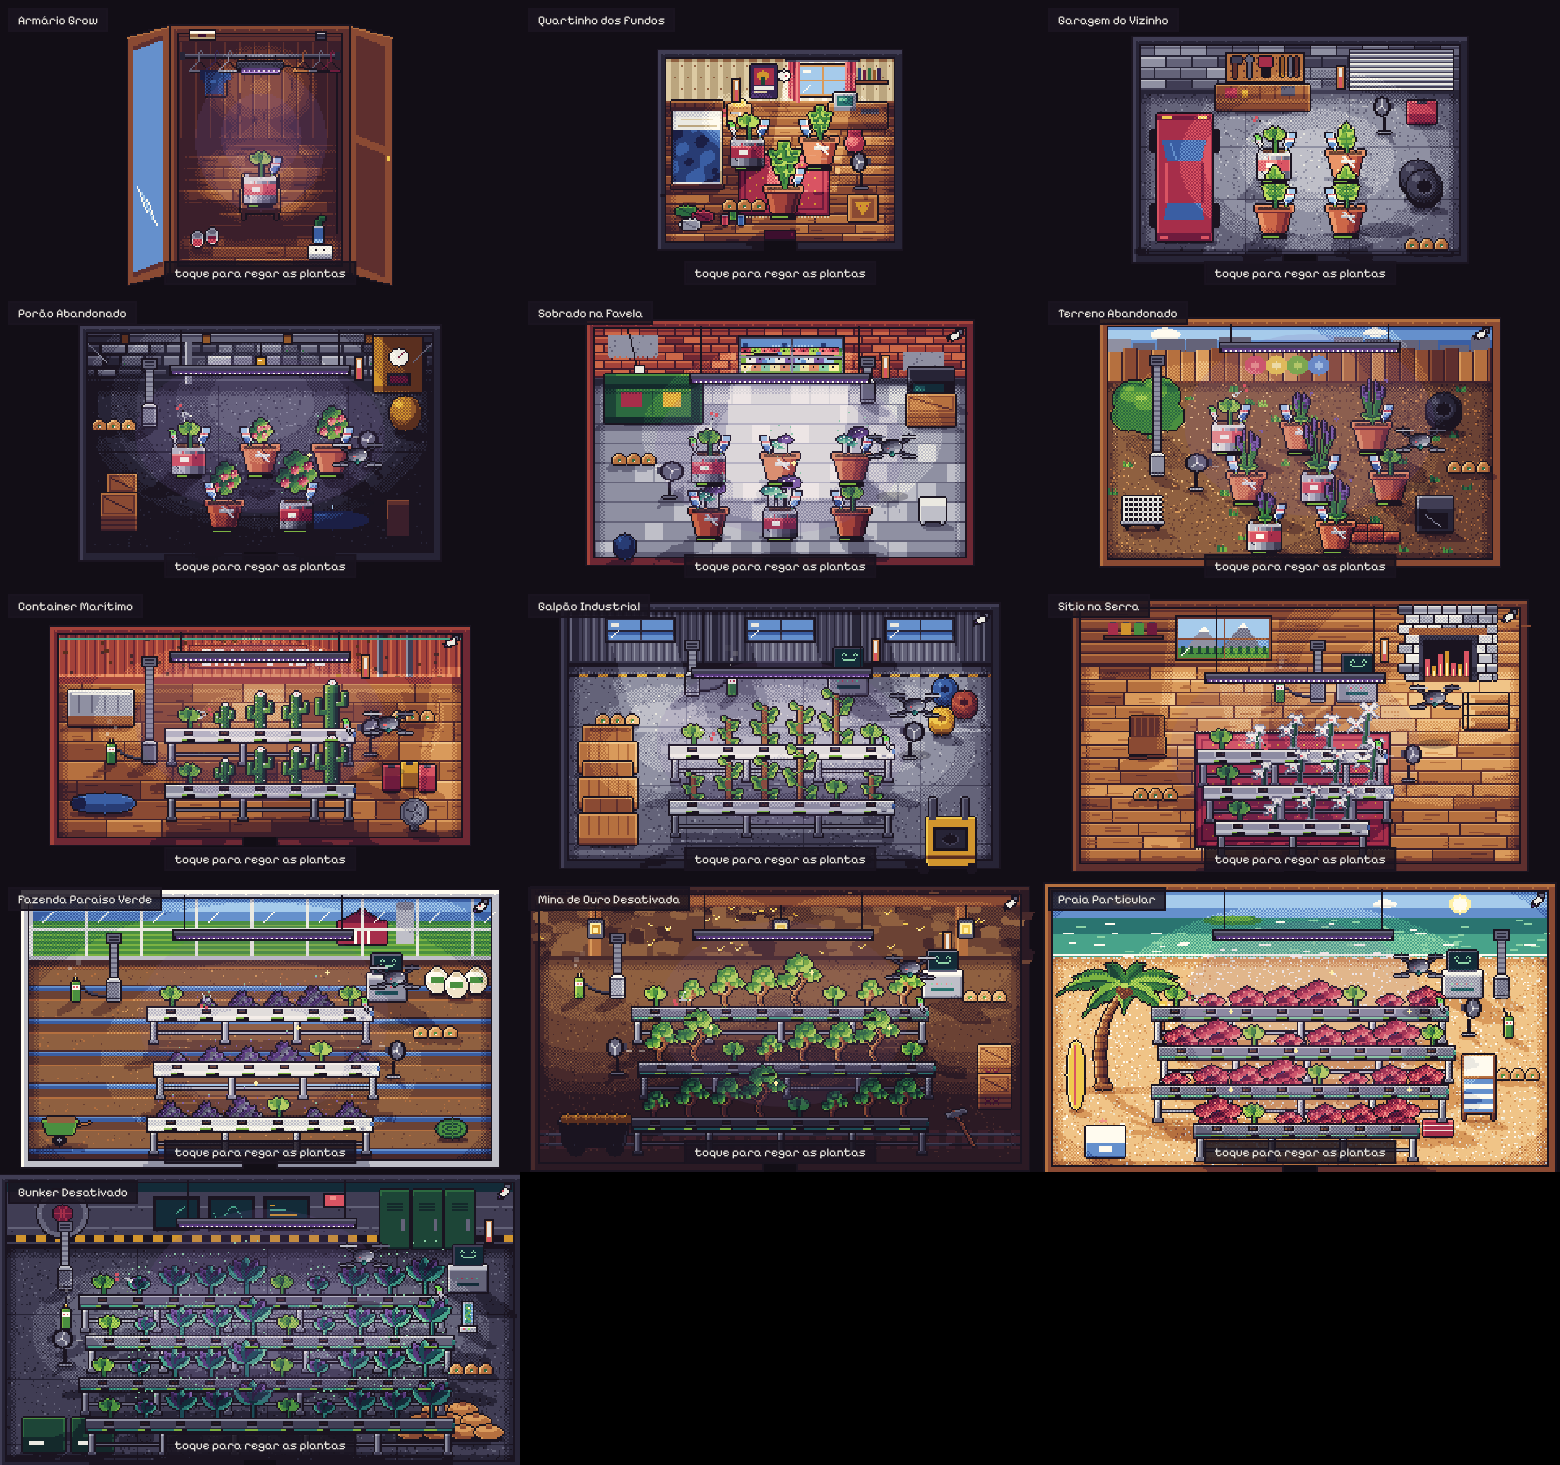
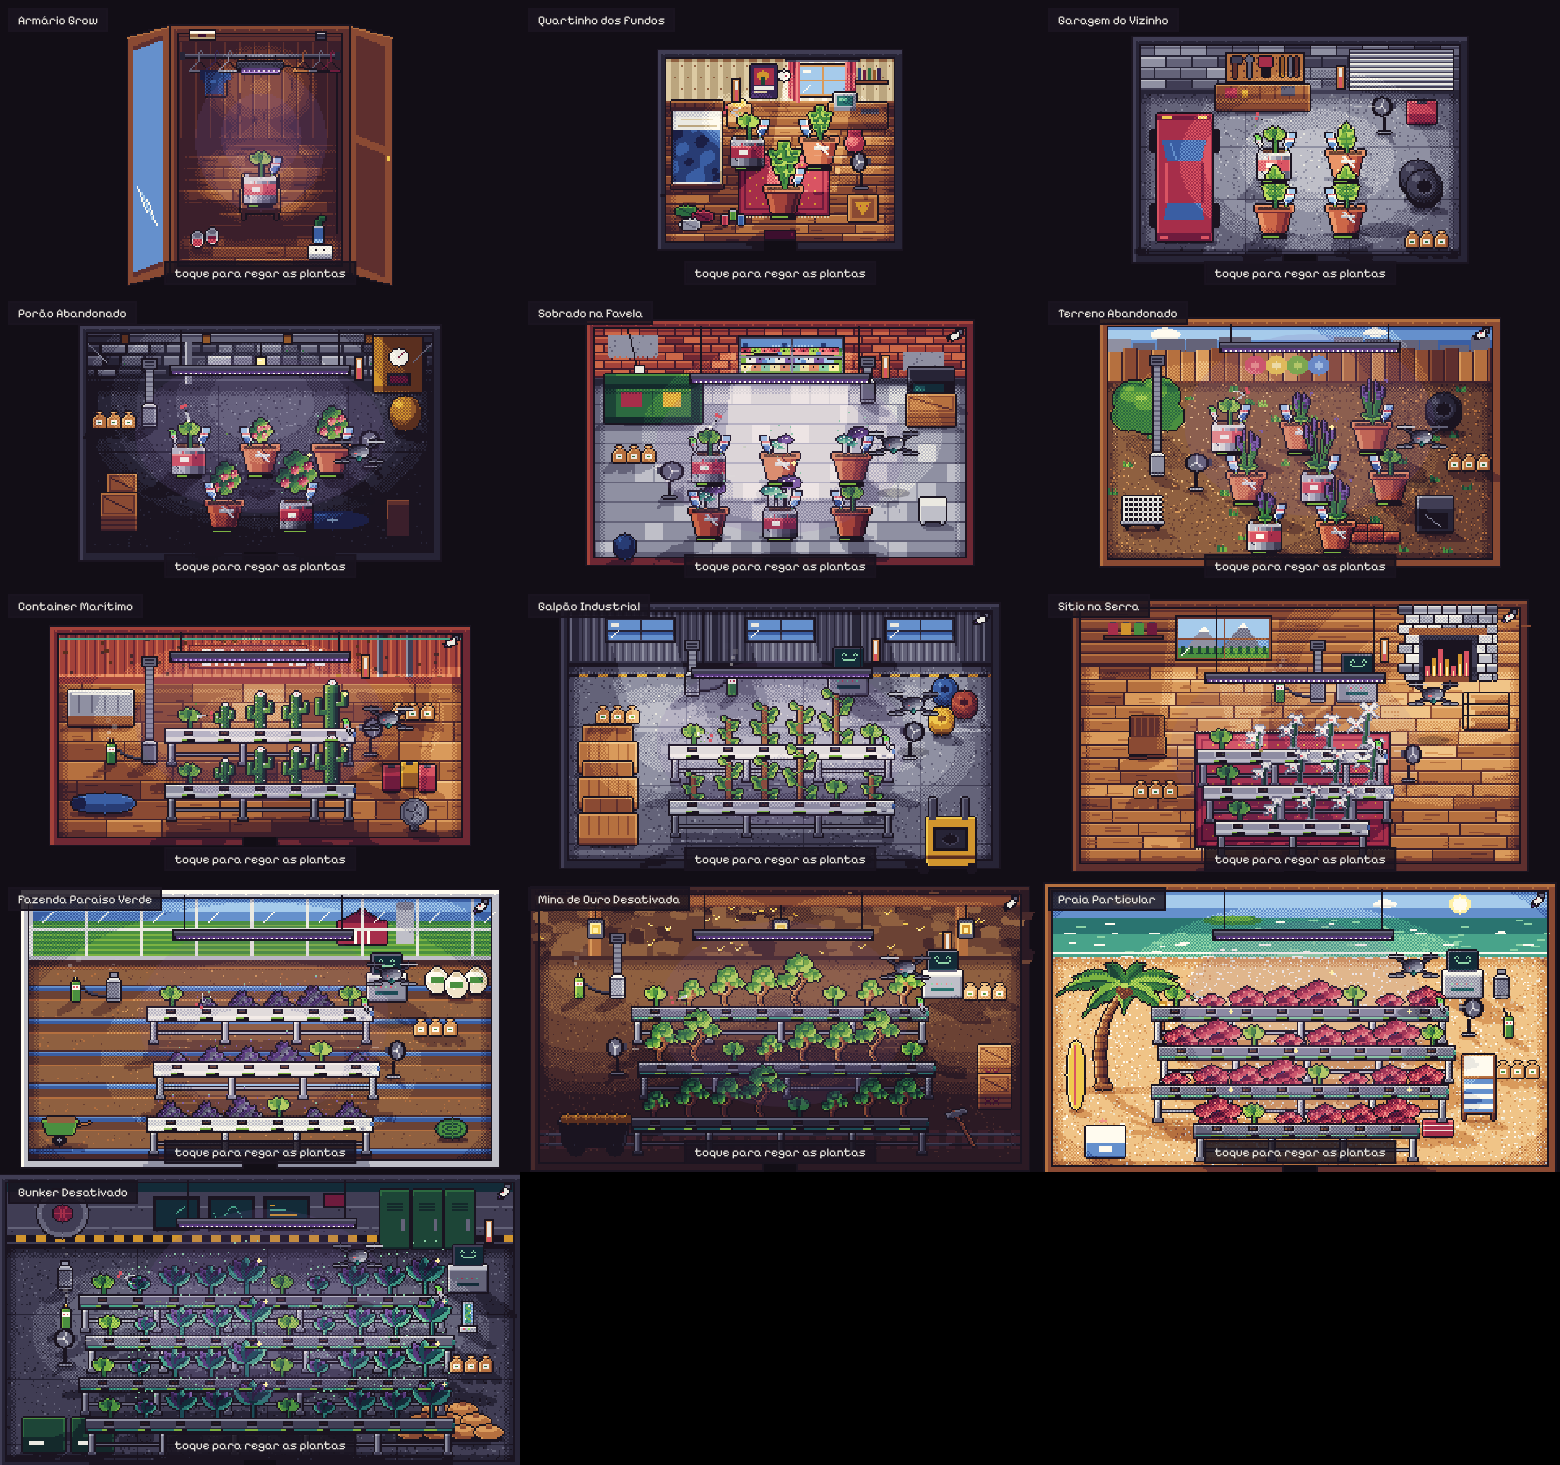
Menos equipamentos nos primeiros lugares; lâmpada, mini estufa, osmose e kit bunker saem do jogo
Claude-Session: https://claude.ai/code/session_01HfiNK7N8PbFECLpAuFn46A

diff --git a/prototype/idle/index.html b/prototype/idle/index.html
@@ -182,16 +182,16 @@ canvas.spark{display:inline-block;width:72px;height:18px;vertical-align:middle;i
     ["Cogumelo Saltitante", 300, 500, 5, 6, ["termometro", "ventilador"], 75],
     ["Lavanda Hipnótica", 800, 1200, 4, 7, ["fertilizante", "ventilador"], 90],
     ["Cacto Cabeludo", 2000, 3500, 2, 8, ["ph", "termometro"], 100],
-    ["Lótus Azul", 5000, 8000, 3, 9, ["lampada", "ph", "fertilizante"], 120],
-    ["Cipó Enrolado", 12000, 25000, 2, 10, ["estufa", "ph", "fertilizante"], 150],
-    ["Orquídea Fantasma", 30000, 60000, 2, 12, ["lampada", "estufa", "filtro"], 180],
+    ["Lótus Azul", 5000, 8000, 3, 9, ["ventilador", "ph", "fertilizante"], 120],
+    ["Cipó Enrolado", 12000, 25000, 2, 10, ["filtro", "ph"], 150],
+    ["Orquídea Fantasma", 30000, 60000, 2, 12, ["filtro", "led"], 180],
     ["Trufa Negra", 80000, 150000, 2, 14, ["led", "filtro", "ph"], 210],
     ["Mandrágora", 200000, 450000, 1, 16, ["led", "hidro", "filtro"], 240],
     ["Bonsai Milenar", 500000, 1.2e6, 1, 18, ["hidro", "co2", "led"], 300],
-    ["Rafflesia Gigante", 1.5e6, 4e6, 1, 20, ["co2", "osmose", "led", "filtro"], 360],
-    ["Aurora Boreal", 5e6, 1.5e7, 1, 23, ["ia", "co2", "osmose", "led"], 420],
-    ["Fruto do Éden", 2e7, 6.5e7, 1, 26, ["ia", "bunker", "lab"], 600],
-    ["Broto de Yggdrasil", 1e8, 3.5e8, 1, 30, ["lab", "bunker", "ia", "osmose"], 900],
+    ["Rafflesia Gigante", 1.5e6, 4e6, 1, 20, ["co2", "led", "filtro"], 360],
+    ["Aurora Boreal", 5e6, 1.5e7, 1, 23, ["ia", "co2", "led"], 420],
+    ["Fruto do Éden", 2e7, 6.5e7, 1, 26, ["ia", "lab"], 600],
+    ["Broto de Yggdrasil", 1e8, 3.5e8, 1, 30, ["lab", "ia", "cameras", "drone"], 900],
   ].map(([name, price, sell, prod, bot, req, time], id) => ({ id, name, price, sell, prod, bot, req, time, frame: id }));
 
   // Equipamentos (GDD): preço em grana limpa e bônus de produção. Cada um tem níveis
@@ -200,13 +200,15 @@ canvas.spark{display:inline-block;width:72px;height:18px;vertical-align:middle;i
   // (os outros ficam para trás e são comprados de novo no lugar novo). place: lugar mínimo onde cabe.
   const EQUIP_RULES = {
     regador: { max: 5, place: 0 }, tesoura: { max: 5, place: 1 }, ventilador: { max: 5, place: 1 },
-    termometro: { max: 5, place: 1 }, fertilizante: { max: 5, place: 1 }, lampada: { max: 5, place: 1 },
-    ph: { max: 5, place: 1 }, estufa: { max: 5, place: 2 }, drone: { max: 1, keep: true, place: 3 },
+    termometro: { max: 5, place: 1 }, fertilizante: { max: 5, place: 2 }, lampada: { max: 5, place: 1 },
+    ph: { max: 5, place: 2 }, estufa: { max: 5, place: 2 }, drone: { max: 1, keep: true, place: 3 },
     filtro: { max: 5, place: 3 }, led: { max: 5, place: 3 }, hidro: { max: 1, keep: true, place: 6 },
     co2: { max: 5, place: 6 }, cameras: { max: 5, place: 4 }, osmose: { max: 5, place: 7 },
     ia: { max: 1, keep: true, place: 7 }, bunker: { max: 1, keep: true, place: 12, only: true },
     lab: { max: 1, keep: true, place: 12, only: true },
   };
+  // saíram do jogo: lâmpada com alumínio, mini estufa, osmose reversa e kit bunker
+  const REMOVED_EQUIP = ["lampada", "estufa", "osmose", "bunker"];
   const EQUIP = [
     ["regador", "Regador de garrafa PET", 100, 0.02, { speed: 0.05 }, "Cresce 5% mais rápido"],
     ["tesoura", "Tesoura enferrujada", 150, 0.02, { tap: 0.5 }, "Toque 50% mais forte"],
@@ -226,7 +228,8 @@ canvas.spark{display:inline-block;width:72px;height:18px;vertical-align:middle;i
     ["ia", "Controlador IA", 1e7, 0.15, { tap: 1 }, "Toque 100% mais forte"],
     ["bunker", "Kit bunker", 3.5e7, 0.12, { guard: 0.25 }, "Rondas têm 25% menos chance de te achar"],
     ["lab", "Lab. de genética", 1.5e8, 0.2, { speed: 0.25 }, "Cresce 25% mais rápido"],
-  ].map(([id, name, price, prod, fx, fxText], i) => ({ id, name, price, prod, fx, fxText, frame: i, ...EQUIP_RULES[id] }));
+  ].map(([id, name, price, prod, fx, fxText], i) => ({ id, name, price, prod, fx, fxText, frame: i, ...EQUIP_RULES[id] }))
+    .filter((e) => !REMOVED_EQUIP.includes(e.id));
   const EQUIP_LEVEL_MULT = 3; // cada nível extra custa 3x o anterior (nível 5 = 81x o preço inicial)
 
   // Imóveis (GDD), em grana limpa. tier = visual (0 gambiarra, 1 profissional, 2 high-tech).
@@ -2556,7 +2559,7 @@ function loja() {
     const dInc = Math.max(0, E.incomePerSec(s2) - inc0);
     const worth = !block ? (dInc > 0 ? `<br><span class="gain">+${$$(dInc * 60)}/min de renda</span> <span class="gain2">· se paga em ${dur(c / dInc)}</span>` : "") : "";
     row({
-      ico: equipIcon(i), title: e.name, lv: e.max === 1 ? (lv ? "instalado" : "compra única") : `nv ${lv}/${e.max}`, cls: room ? "locked" : "",
+      ico: equipIcon(e.frame), title: e.name, lv: e.max === 1 ? (lv ? "instalado" : "compra única") : `nv ${lv}/${e.max}`, cls: room ? "locked" : "",
       desc: `+${pct(e.prod)} de produção${e.max > 1 ? " por nível" : ""}${e.fxText ? " · " + e.fxText : ""}${e.keep && !e.only ? " · vai com você" : ""}` +
         (room ? `<br><span class="req">${block}</span>` : needed ? `<br><span class="best">🔓 libera ${nextLocked.name}</span>` : "") + worth,
       btn: block ? (room ? null : block === "Já instalado" ? "Instalado" : "Máximo") : $$(c), btnCls: "clean",

diff --git a/prototype/idle/econ.js b/prototype/idle/econ.js
@@ -15,16 +15,16 @@
     ["Cogumelo Saltitante", 300, 500, 5, 6, ["termometro", "ventilador"], 75],
     ["Lavanda Hipnótica", 800, 1200, 4, 7, ["fertilizante", "ventilador"], 90],
     ["Cacto Cabeludo", 2000, 3500, 2, 8, ["ph", "termometro"], 100],
-    ["Lótus Azul", 5000, 8000, 3, 9, ["lampada", "ph", "fertilizante"], 120],
-    ["Cipó Enrolado", 12000, 25000, 2, 10, ["estufa", "ph", "fertilizante"], 150],
-    ["Orquídea Fantasma", 30000, 60000, 2, 12, ["lampada", "estufa", "filtro"], 180],
+    ["Lótus Azul", 5000, 8000, 3, 9, ["ventilador", "ph", "fertilizante"], 120],
+    ["Cipó Enrolado", 12000, 25000, 2, 10, ["filtro", "ph"], 150],
+    ["Orquídea Fantasma", 30000, 60000, 2, 12, ["filtro", "led"], 180],
     ["Trufa Negra", 80000, 150000, 2, 14, ["led", "filtro", "ph"], 210],
     ["Mandrágora", 200000, 450000, 1, 16, ["led", "hidro", "filtro"], 240],
     ["Bonsai Milenar", 500000, 1.2e6, 1, 18, ["hidro", "co2", "led"], 300],
-    ["Rafflesia Gigante", 1.5e6, 4e6, 1, 20, ["co2", "osmose", "led", "filtro"], 360],
-    ["Aurora Boreal", 5e6, 1.5e7, 1, 23, ["ia", "co2", "osmose", "led"], 420],
-    ["Fruto do Éden", 2e7, 6.5e7, 1, 26, ["ia", "bunker", "lab"], 600],
-    ["Broto de Yggdrasil", 1e8, 3.5e8, 1, 30, ["lab", "bunker", "ia", "osmose"], 900],
+    ["Rafflesia Gigante", 1.5e6, 4e6, 1, 20, ["co2", "led", "filtro"], 360],
+    ["Aurora Boreal", 5e6, 1.5e7, 1, 23, ["ia", "co2", "led"], 420],
+    ["Fruto do Éden", 2e7, 6.5e7, 1, 26, ["ia", "lab"], 600],
+    ["Broto de Yggdrasil", 1e8, 3.5e8, 1, 30, ["lab", "ia", "cameras", "drone"], 900],
   ].map(([name, price, sell, prod, bot, req, time], id) => ({ id, name, price, sell, prod, bot, req, time, frame: id }));
 
   // Equipamentos (GDD): preço em grana limpa e bônus de produção. Cada um tem níveis
@@ -33,13 +33,15 @@
   // (os outros ficam para trás e são comprados de novo no lugar novo). place: lugar mínimo onde cabe.
   const EQUIP_RULES = {
     regador: { max: 5, place: 0 }, tesoura: { max: 5, place: 1 }, ventilador: { max: 5, place: 1 },
-    termometro: { max: 5, place: 1 }, fertilizante: { max: 5, place: 1 }, lampada: { max: 5, place: 1 },
-    ph: { max: 5, place: 1 }, estufa: { max: 5, place: 2 }, drone: { max: 1, keep: true, place: 3 },
+    termometro: { max: 5, place: 1 }, fertilizante: { max: 5, place: 2 }, lampada: { max: 5, place: 1 },
+    ph: { max: 5, place: 2 }, estufa: { max: 5, place: 2 }, drone: { max: 1, keep: true, place: 3 },
     filtro: { max: 5, place: 3 }, led: { max: 5, place: 3 }, hidro: { max: 1, keep: true, place: 6 },
     co2: { max: 5, place: 6 }, cameras: { max: 5, place: 4 }, osmose: { max: 5, place: 7 },
     ia: { max: 1, keep: true, place: 7 }, bunker: { max: 1, keep: true, place: 12, only: true },
     lab: { max: 1, keep: true, place: 12, only: true },
   };
+  // saíram do jogo: lâmpada com alumínio, mini estufa, osmose reversa e kit bunker
+  const REMOVED_EQUIP = ["lampada", "estufa", "osmose", "bunker"];
   const EQUIP = [
     ["regador", "Regador de garrafa PET", 100, 0.02, { speed: 0.05 }, "Cresce 5% mais rápido"],
     ["tesoura", "Tesoura enferrujada", 150, 0.02, { tap: 0.5 }, "Toque 50% mais forte"],
@@ -59,7 +61,8 @@
     ["ia", "Controlador IA", 1e7, 0.15, { tap: 1 }, "Toque 100% mais forte"],
     ["bunker", "Kit bunker", 3.5e7, 0.12, { guard: 0.25 }, "Rondas têm 25% menos chance de te achar"],
     ["lab", "Lab. de genética", 1.5e8, 0.2, { speed: 0.25 }, "Cresce 25% mais rápido"],
-  ].map(([id, name, price, prod, fx, fxText], i) => ({ id, name, price, prod, fx, fxText, frame: i, ...EQUIP_RULES[id] }));
+  ].map(([id, name, price, prod, fx, fxText], i) => ({ id, name, price, prod, fx, fxText, frame: i, ...EQUIP_RULES[id] }))
+    .filter((e) => !REMOVED_EQUIP.includes(e.id));
   const EQUIP_LEVEL_MULT = 3; // cada nível extra custa 3x o anterior (nível 5 = 81x o preço inicial)
 
   // Imóveis (GDD), em grana limpa. tier = visual (0 gambiarra, 1 profissional, 2 high-tech).

diff --git a/prototype/idle/template.html b/prototype/idle/template.html
@@ -1099,7 +1099,7 @@ function loja() {
     const dInc = Math.max(0, E.incomePerSec(s2) - inc0);
     const worth = !block ? (dInc > 0 ? `<br><span class="gain">+${$$(dInc * 60)}/min de renda</span> <span class="gain2">· se paga em ${dur(c / dInc)}</span>` : "") : "";
     row({
-      ico: equipIcon(i), title: e.name, lv: e.max === 1 ? (lv ? "instalado" : "compra única") : `nv ${lv}/${e.max}`, cls: room ? "locked" : "",
+      ico: equipIcon(e.frame), title: e.name, lv: e.max === 1 ? (lv ? "instalado" : "compra única") : `nv ${lv}/${e.max}`, cls: room ? "locked" : "",
       desc: `+${pct(e.prod)} de produção${e.max > 1 ? " por nível" : ""}${e.fxText ? " · " + e.fxText : ""}${e.keep && !e.only ? " · vai com você" : ""}` +
         (room ? `<br><span class="req">${block}</span>` : needed ? `<br><span class="best">🔓 libera ${nextLocked.name}</span>` : "") + worth,
       btn: block ? (room ? null : block === "Já instalado" ? "Instalado" : "Máximo") : $$(c), btnCls: "clean",

diff --git a/docs/IDLE.md b/docs/IDLE.md
@@ -42,7 +42,7 @@ Todos os sistemas do GDD original estão no protótipo, com os números do GDD:
 | 13 imóveis | Do Armário Grow (1 vaso numa cadeira, dentro do guarda-roupa) ao Bunker Desativado (40 plantas). Ordem: Armário, Quartinho, Garagem, Porão, Sobrado na Favela, Terreno, Container, Galpão, Sítio, Fazenda, Mina, Praia Particular e Bunker. O Quartinho é o 2º ($100, 3 vasos). Do Terreno em diante as plantas vão para calhas de hidroponia, que cabem mais plantas no mesmo espaço. A Estação Espacial saiu: o passo seguinte vai ser mudar de cidade. O visual muda: gambiarra → profissional → high-tech. |
 | 5 níveis de venda | Por porcentagem do estoque: Discreto 5%, Normal 15%, Ousado 35%, Agressivo 70% e All-in 100% (maior risco). Cada nível tem Paranoia, chance de flagrante e bônus de preço. Uma venda por vez (espera de 20 s a 3 s). Cada venda gasta Estamina proporcional ao tamanho: 1, 3, 6, 10 e 16⚡ (o dobro com Paranoia alta). As vendas do Zé não gastam a sua. |
 | Ficha na polícia | Cada batida sobe a ficha em 10% (até 50%): a Paranoia nunca cai abaixo dela, então quem já foi preso joga com menos folga. A ficha baixa 5% a cada 5 de Lenda ganhos depois da batida, ou 10% na hora com o advogado (Cidade, grana limpa, 10× mais caro a cada 10% de ficha). Aparece como uma faixa listrada no começo da barra de Paranoia. |
-| Equipamentos por lugar | Até o nível 5 (cada nível custa 3× o anterior). Cada um tem um lugar mínimo onde cabe (no Armário só a garrafa PET) e não dá para comprar antes. Ao se mudar, os equipamentos ficam para trás e são comprados de novo. Drone, sistema hidropônico e controlador IA são compra única e vão com você; kit bunker e laboratório de genética só no Bunker. As calhas aparecem quando você compra o sistema hidropônico. |
+| Equipamentos por lugar | 14 equipamentos (a lâmpada com alumínio, a mini estufa, a osmose reversa e o kit bunker saíram do jogo). Até o nível 5, cada nível custa 3× o anterior. Cada um tem um lugar mínimo: Armário só a garrafa PET; Quartinho até o termômetro (tesoura, ventilador, termômetro); Garagem até o pH (adubo, pH); Porão: drone, filtro e LED; Sobrado: câmeras; Container: hidroponia e CO2; Galpão: IA; Bunker: laboratório. Ao se mudar, os equipamentos ficam para trás e são comprados de novo; drone, hidroponia e IA são compra única e vão com você. |
 | Zé cuidadoso | O Zé só vende se a Paranoia ficar até 60%. |
 | Visita surpresa da Vó | Com o jogo aberto, a cada 15 min há 6% de chance de a Vó aparecer e descobrir tudo (em média uma vez a cada ~4 h jogando). Você escolhe uma de duas explicações, sorteadas de 10: 5 levam à cadeia (batida), 4 passam (algumas dão energia ou Botânica) e 1 deixa a Paranoia em 90%. Vale para todo mundo, até para quem joga com cuidado. |
 | Modo fácil | Escolhido ao começar (ou no Perfil, recomeçando). Cresce 3× mais rápido, vende 2× mais caro, tudo custa 30%, atributos sobem 3× mais rápido, a Paranoia cai 2× mais rápido e a espera entre vendas cai pela metade. Na simulação, um jogador ativo zera em ~1h35. Aparece a etiqueta MODO FÁCIL na cena. |
